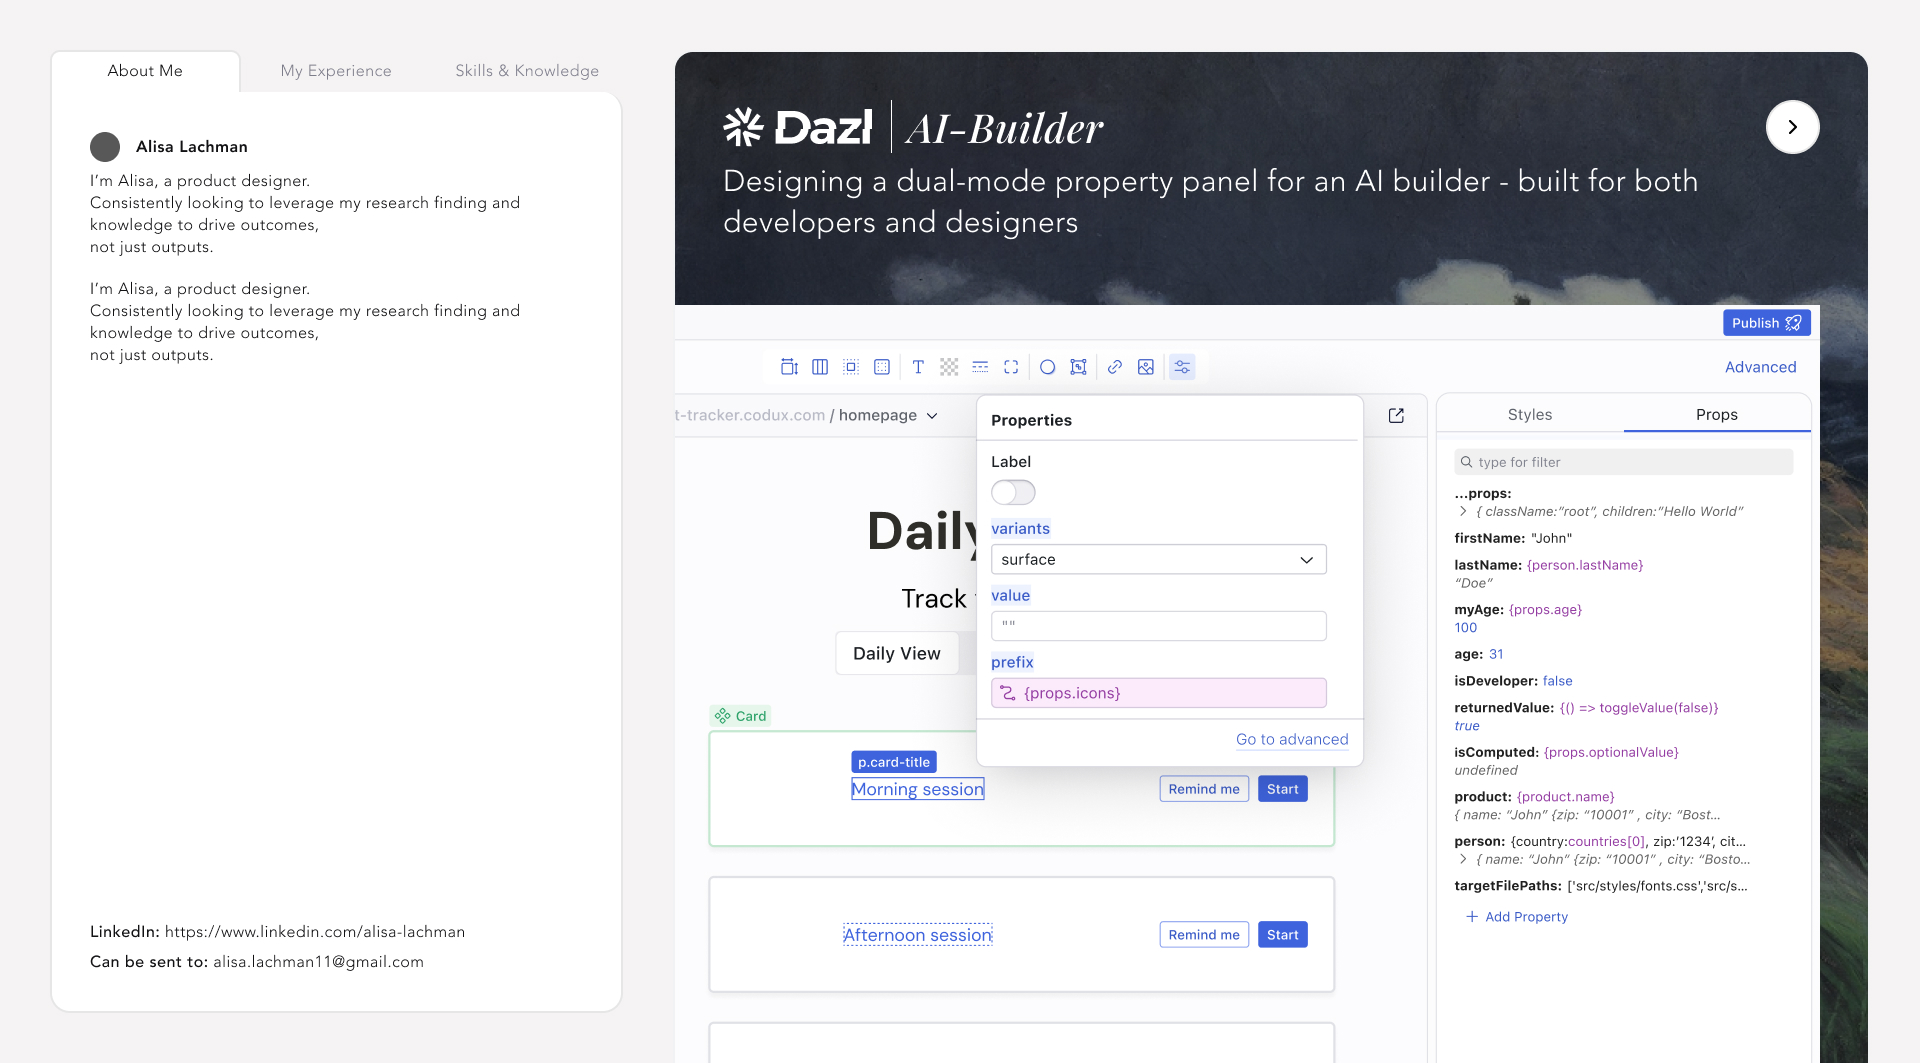
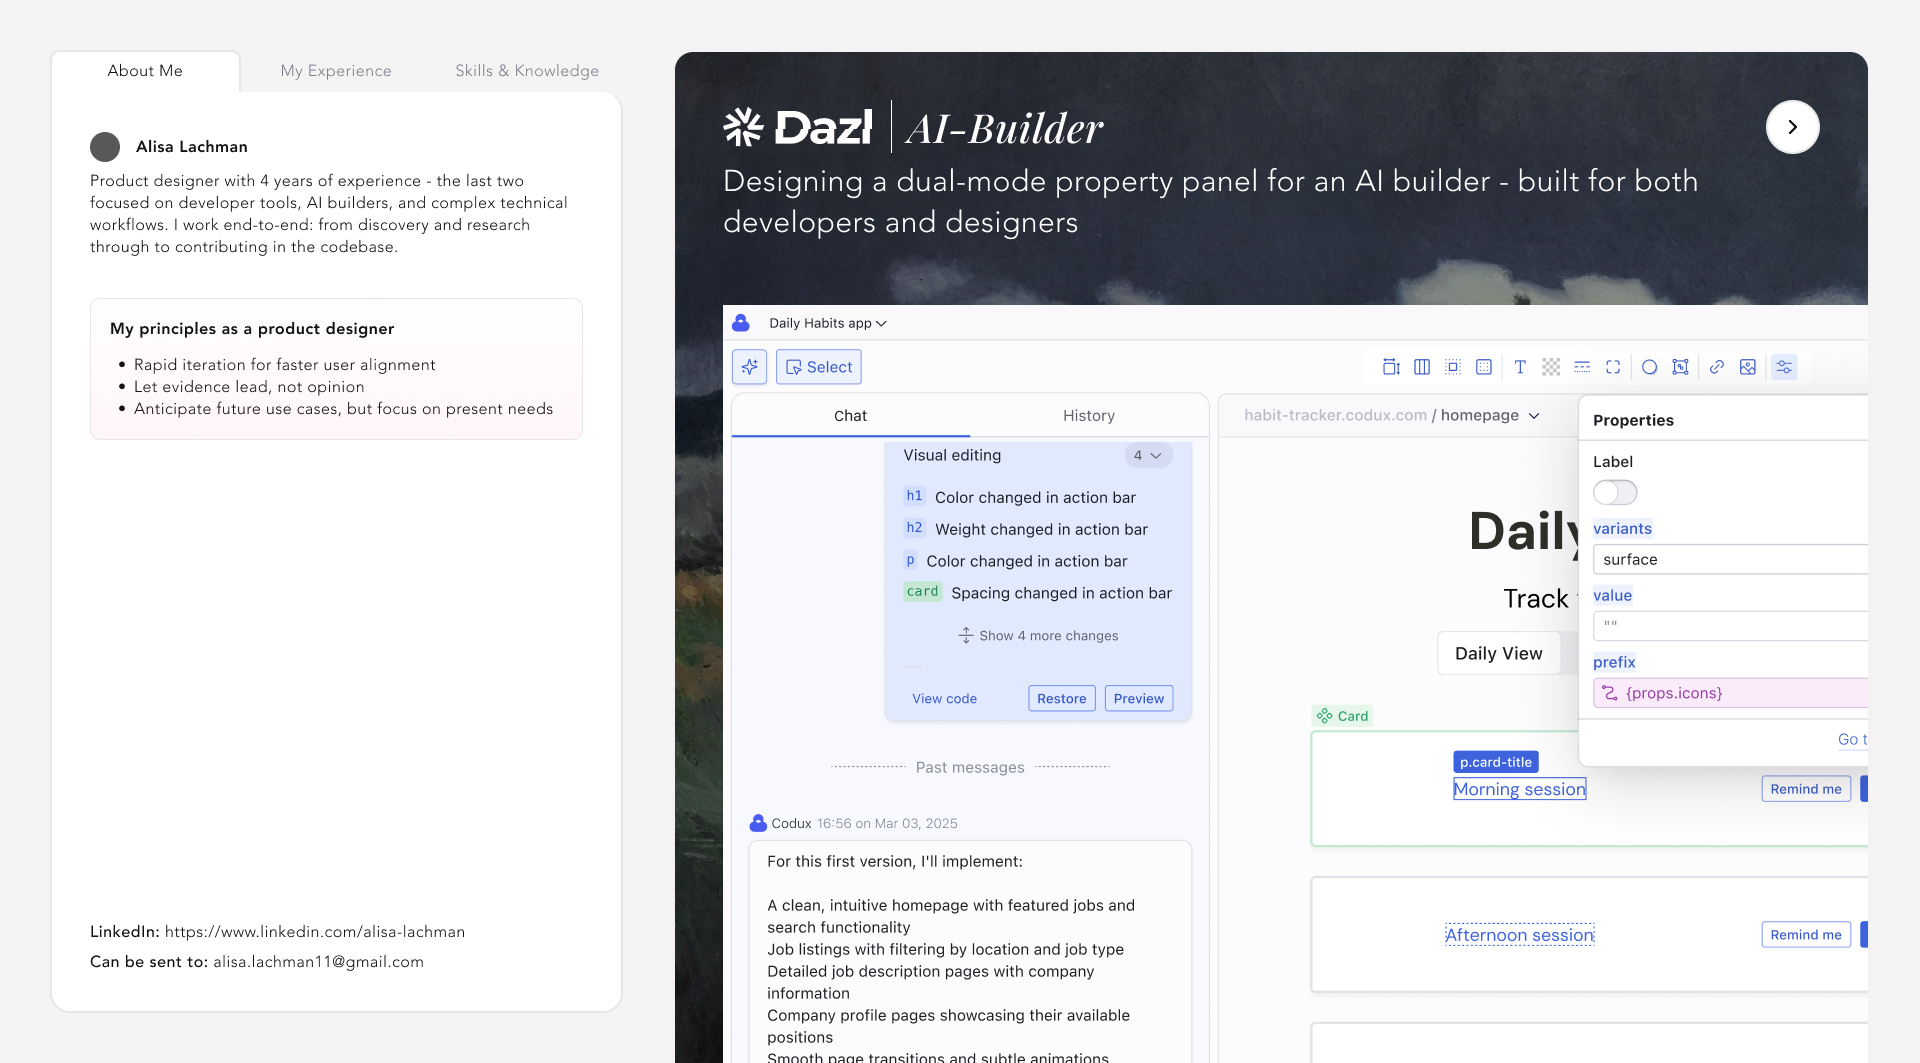
Refresh About Me with new intro copy and principles card
- Replace intro with a fuller positioning paragraph (4 yrs experience, dev tools / AI builders focus)
- Add a 'My principles as a product designer' inner card with three bullets
- Widen the sidebar column from 380px to 430px to fit the new content
- Update the design reference image

diff --git a/src/content/site.js b/src/content/site.js
@@ -14,10 +14,16 @@ export const meta = {
 // ---------- Sidebar: profile ----------
 export const profile = {
   name: 'Alisa Lachman',
-  // Multi-line intro paragraph. Line breaks here are preserved on screen.
-  intro: `I'm Alisa, a product designer.
-Consistently looking to leverage my research finding and knowledge to drive outcomes,
-not just outputs.`,
+  intro:
+    'Product designer with 4 years of experience - the last two focused on developer tools, AI builders, and complex technical workflows. I work end-to-end: from discovery and research through to contributing in the codebase.',
+  principles: {
+    title: 'My principles as a product designer',
+    bullets: [
+      'Rapid iteration for faster user alignment',
+      'Let evidence lead, not opinion',
+      'Anticipate future use cases, but focus on present needs',
+    ],
+  },
   linkedin: 'https://www.linkedin.com/alisa-lachman',
   email: 'alisa.lachman11@gmail.com',
   // avatar: '/images/avatar.jpg', // ← uncomment after adding a square photo to public/images/

diff --git a/src/components/Sidebar.css b/src/components/Sidebar.css
@@ -89,6 +89,37 @@
   white-space: pre-line;
 }
 
+/* ---- Principles inner card ---- */
+.principles-card {
+  border: 1px solid var(--color-card-border);
+  border-radius: var(--radius-card);
+  padding: var(--space-4);
+  display: flex;
+  flex-direction: column;
+  gap: var(--space-2);
+}
+
+.principles-card__title {
+  font-size: 0.875rem;
+  font-weight: 600;
+  color: var(--color-text);
+  margin: 0;
+}
+
+.principles-card__bullets {
+  list-style: disc;
+  padding-left: 1.1rem;
+  display: flex;
+  flex-direction: column;
+  gap: var(--space-1);
+}
+
+.principles-card__bullets li {
+  font-size: 0.8125rem;
+  line-height: 1.5;
+  color: var(--color-text);
+}
+
 .sidebar__contact {
   display: flex;
   flex-direction: column;

diff --git a/src/components/Sidebar.jsx b/src/components/Sidebar.jsx
@@ -66,6 +66,15 @@ function AboutPanel() {
 
       <p className="sidebar__intro">{profile.intro}</p>
 
+      <section className="principles-card">
+        <h3 className="principles-card__title">{profile.principles.title}</h3>
+        <ul className="principles-card__bullets">
+          {profile.principles.bullets.map((bullet, i) => (
+            <li key={i}>{bullet}</li>
+          ))}
+        </ul>
+      </section>
+
       <div className="sidebar__contact">
         <p className="sidebar__contact-row">
           <span className="sidebar__contact-label">{ui.contactLinkedInLabel}</span>{' '}

diff --git a/src/pages/Home.css b/src/pages/Home.css
@@ -1,6 +1,6 @@
 .home {
   display: grid;
-  grid-template-columns: minmax(280px, 380px) 1fr;
+  grid-template-columns: minmax(280px, 430px) 1fr;
   gap: var(--space-5);
   padding: var(--space-5);
   background: #fafafa;
